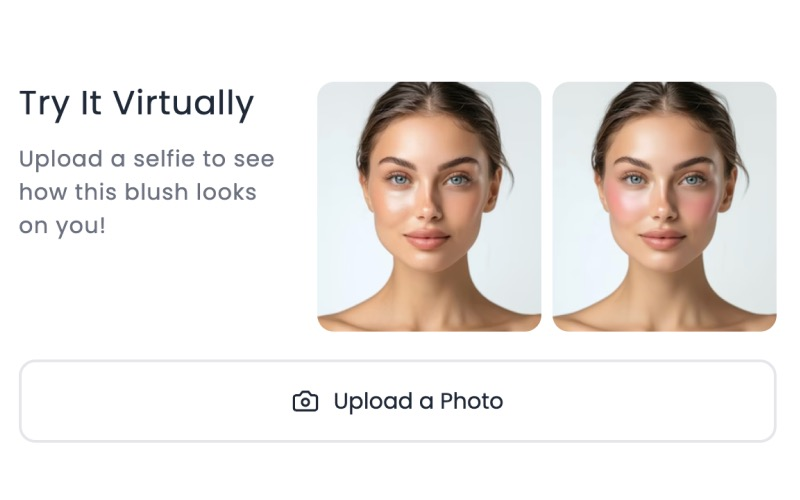
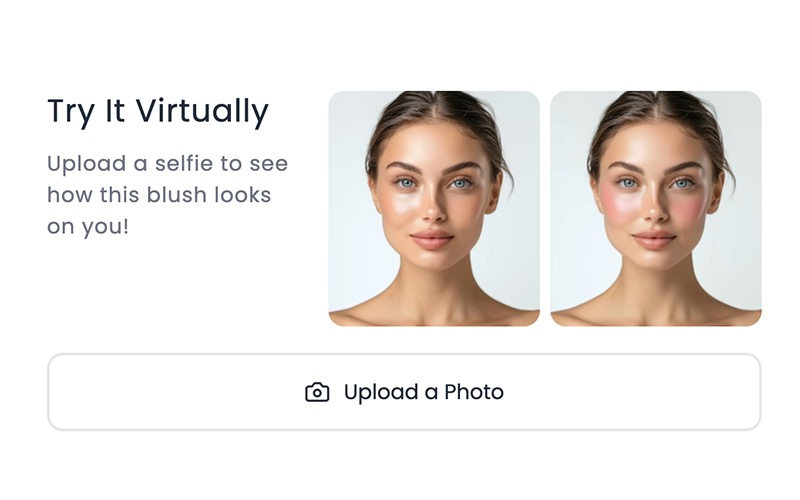
bug fixes -- linter errors

diff --git a/app/lib/supabase.server.ts b/app/lib/supabase.server.ts
@@ -13,40 +13,6 @@ export const supabase = createClient(
   process.env.SUPABASE_API_KEY
 );
 
-// Helper function to auto-register alternate domain (fire-and-forget)
-async function autoRegisterAlternateDomain(shopId: string, alternateDomain: string) {
-  try {
-    // Use raw SQL to append to array only if not already present
-    const { error } = await supabase.rpc('add_alternate_domain', {
-      p_shop_id: shopId,
-      p_domain: alternateDomain
-    });
-    
-    if (error) {
-      // Fallback: try direct update if RPC doesn't exist yet
-      const { data: currentShop } = await supabase
-        .from('shops')
-        .select('alternate_domains')
-        .eq('id', shopId)
-        .single();
-      
-      const currentDomains = currentShop?.alternate_domains || [];
-      if (!currentDomains.includes(alternateDomain)) {
-        await supabase
-          .from('shops')
-          .update({ alternate_domains: [...currentDomains, alternateDomain] })
-          .eq('id', shopId);
-        console.log('✅ Auto-registered alternate domain:', alternateDomain);
-      }
-    } else {
-      console.log('✅ Auto-registered alternate domain via RPC:', alternateDomain);
-    }
-  } catch (err) {
-    // Non-critical, log but don't throw
-    console.error('Failed to auto-register alternate domain:', err);
-  }
-}
-
 // Helper function to find shop - SECURE VERSION
 // Only uses exact match and explicit alternate_domains whitelist
 // No fuzzy matching or guessing to prevent impersonation attacks

diff --git a/app/routes/app.products.tsx b/app/routes/app.products.tsx
@@ -17,7 +17,6 @@ import {
   Thumbnail,
   Banner,
   DropZone,
-  Spinner,
 } from "@shopify/polaris";
 import { TitleBar } from "@shopify/app-bridge-react";
 import { authenticate } from "../shopify.server";
@@ -26,7 +25,6 @@ import {
   saveProductConfiguration, 
   updateProductConfiguration, 
   deleteProductConfiguration,
-  getProductVariants,
   saveVariantConfiguration
 } from "../lib/supabase.server";
 
@@ -233,7 +231,8 @@ export default function Products() {
   const [transformError, setTransformError] = useState<string | null>(null);
 
   // Variant configuration state (Phase 3)
-  const [showVariants, setShowVariants] = useState(false);
+  // Note: showVariants state reserved for future UI expansion
+  const [, setShowVariants] = useState(false);
   const [configuredVariants, setConfiguredVariants] = useState<any[]>([]);
   const [selectedVariantForConfig, setSelectedVariantForConfig] = useState<any | null>(null);
   const [variantPrompt, setVariantPrompt] = useState("");
@@ -488,14 +487,14 @@ export default function Products() {
           </Text>
         </InlineStack>
       </div>,
-      <div style={{ paddingLeft: '4px'}}>
+      <div key={`${product.id}-prompt`} style={{ paddingLeft: '4px'}}>
         <Text as="span" variant="bodySm">
           {product.transformation_prompt.length > 75
             ? `${product.transformation_prompt.substring(0, 75)}...` 
             : product.transformation_prompt}
         </Text>
       </div>,
-      <InlineStack gap="200" wrap={false}>
+      <InlineStack key={`${product.id}-actions`} gap="200" wrap={false}>
         <Button size="slim" onClick={() => handleTest(product)}>
           Test
         </Button>
@@ -539,6 +538,7 @@ export default function Products() {
         </InlineStack>
       </div>,
       <Button
+        key={`${product.id}-action`}
         variant={configured ? "plain" : "primary"}
         onClick={() => handleConfigure(product)}
         size="slim"

diff --git a/app/routes/app.settings.tsx b/app/routes/app.settings.tsx
@@ -12,7 +12,6 @@ import {
   Box,
   Icon,
   Divider,
-  Banner,
 } from "@shopify/polaris";
 import {
   LanguageTranslateIcon,
@@ -33,7 +32,7 @@ export const loader = async ({ request }: LoaderFunctionArgs) => {
 };
 
 export const action = async ({ request }: ActionFunctionArgs) => {
-  const { admin, session } = await authenticate.admin(request);
+  const { session } = await authenticate.admin(request);
   const formData = await request.formData();
   const actionType = formData.get("action");
 
@@ -140,9 +139,7 @@ export default function Settings() {
                                 textAlign="start"
                                 onClick={item.onClick}
                               >
-                                <Text as="span" variant="bodyMd" fontWeight="semibold">
-                                  {item.title}
-                                </Text>
+                                {item.title}
                               </Button>
                               <Text as="p" variant="bodySm" tone="subdued">
                                 {item.description}

diff --git a/app/lib/ai.server.ts b/app/lib/ai.server.ts
@@ -1,4 +1,4 @@
-import { GoogleGenAI, Modality } from "@google/genai";
+import { GoogleGenAI } from "@google/genai";
 import sharp from "sharp";
 import heicConvert from "heic-convert";
 

diff --git a/app/routes/app.analytics.tsx b/app/routes/app.analytics.tsx
@@ -3,7 +3,6 @@ import { json } from "@remix-run/node";
 import { useLoaderData } from "@remix-run/react";
 import {
   Page,
-  Layout,
   Text,
   Card,
   BlockStack,
@@ -14,7 +13,6 @@ import {
   Divider,
   Button,
   Collapsible,
-  Icon,
   Thumbnail,
   Badge,
 } from "@shopify/polaris";

diff --git a/app/routes/app.widgets.tsx b/app/routes/app.widgets.tsx
@@ -127,8 +127,6 @@ export default function Widgets() {
                 {/* Widget Preview Image */}
                 <Box
                   background="bg-surface-secondary"
-                  borderRadiusStartStart="300"
-                  borderRadiusStartEnd="300"
                 >
                   {widget.image ? (
                     <div